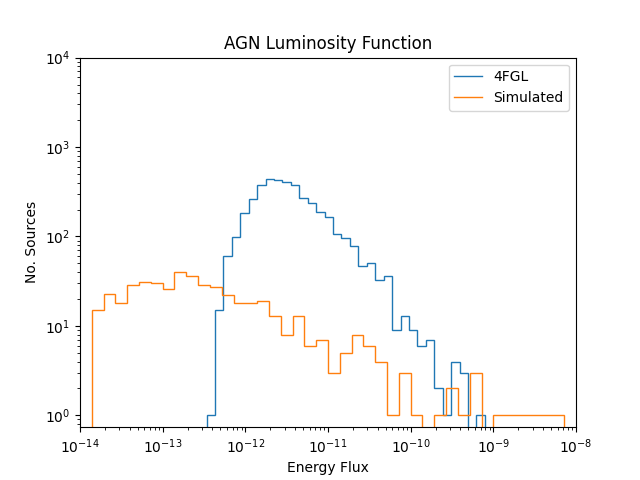
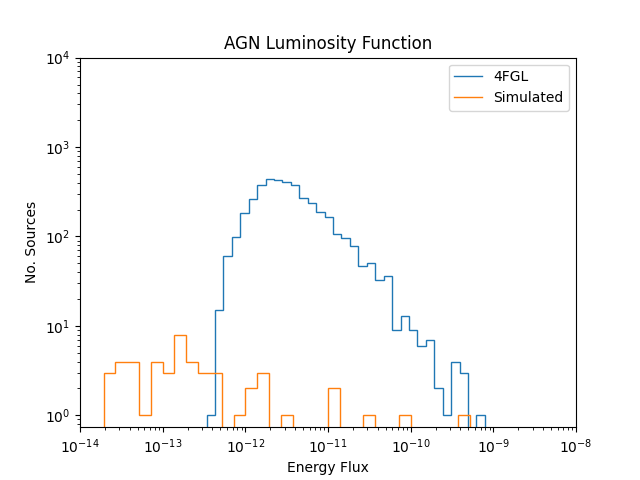
There is something wrong with the pulsar latitude generation.

diff --git a/data_simulation/source_generation/pulsar_generation.py b/data_simulation/source_generation/pulsar_generation.py
@@ -5,17 +5,24 @@ from . utils import split_normal
 from scipy.optimize import curve_fit
 from scipy.stats import Mixture, Normal
 
+import matplotlib.pyplot as plt
+
 
 def pulsar_generator(pulsar_stats, energy_flux_low, energy_flux_high, sigma_1, sigma_2):
 
     # sigma_1 and sigma_2 are the fitted standard deviations of Gaussian distribution
 
-    (mean_log_Gamma_pulsars, std_log_Gamma_pulsars, b_values, len_pulsars, mean_log_a_pulsars, std_log_a_pulsars,
+    (mean_log_Gamma_pulsars, std_log_Gamma_pulsars, b_values, mean_log_a_pulsars, std_log_a_pulsars,
      mean_log_flux_density_pulsars, std_log_flux_density_pulsars, mean_log_pivot_energy_pulsars,
-     std_log_pivot_energy_pulsars, latitudes_pulsars) = pulsar_stats
+     std_log_pivot_energy_pulsars) = pulsar_stats
+
+    # Generate new exponential indices (bs) by selecting from values available (instead of Gaussian recommended by ID8)
+    len_pulsars = len(b_values)
 
     unique_values = np.unique_all(b_values)
     choice_values = unique_values.values
+
+    # Divide by number of pulsars in 4FGL to get probabilities
     new_weights = unique_values.counts / len_pulsars
 
     while True:
@@ -23,8 +30,7 @@ def pulsar_generator(pulsar_stats, energy_flux_low, energy_flux_high, sigma_1, s
         # SPECTRAL PARAMETERS
 
         # Generate new pivot energies - in ID8, they randomly select pivot energies from a Gaussian distribution.
-        # However, the distribution of pivot energies in the 4FGL follows log-normal more precise (CHECK THIS IS TRUE
-        # FOR PULSARS_
+        # However, the distribution of pivot energies in the 4FGL follows log-normal more precise
         pivot_energy = np.random.lognormal(mean=mean_log_pivot_energy_pulsars, sigma=std_log_pivot_energy_pulsars,
                                              size=1)[0]
 
@@ -50,6 +56,7 @@ def pulsar_generator(pulsar_stats, energy_flux_low, energy_flux_high, sigma_1, s
         energy_flux = energy_flux_pulsar(pivot_energy, flux_density, spectral_slope, exponential_index,
                                          exponential_factor)
 
+        # Check energy flux in given range AND that the energy flux is valid
         if (energy_flux >= energy_flux_low) and (energy_flux < energy_flux_high) and (~np.isnan(energy_flux)):
 
             # SPATIAL PARAMETERS
@@ -72,7 +79,7 @@ def pulsar_generator(pulsar_stats, energy_flux_low, energy_flux_high, sigma_1, s
                                energy_flux, longitude, latitude])
 
 
-def pulsar_statistics(pulsars):
+def generate_mock_pulsar_catalog(pulsars, num_pulsars=350):
 
     # Select pivot energy values and convert from MeV to GeV
     pivot_energies = pulsars['Pivot_Energy'].to(u.GeV).value
@@ -84,6 +91,8 @@ def pulsar_statistics(pulsars):
     b_values = pulsars['PLEC_Exp_Index'].data.filled(np.nan)
 
     # Select exponential factors - CHECK (SAYS IN UNITS OF MeV^-b BUT NEED with GeV)
+    # Generate new exponential factors (as) - log-normal (CHANGED FROM ID8, which used normal/Gaussian BASED ON RESULTS
+    # FOUND IN analysing_pulsar_parameters() function)
     a_values = pulsars['PLEC_ExpfactorS'].data
 
     # Select flux density values and convert from ph / (cm2 MeV s) to ph / (cm2 GeV s)
@@ -93,80 +102,30 @@ def pulsar_statistics(pulsars):
     # Log-normal for Gamma even though says Gaussian in ID8
     log_Gammas = np.log(Gammas)
 
-    mean_log_Gamma, std_log_Gamma = np.nanmean(log_Gammas), np.nanstd(log_Gammas, ddof=1)
+    mean_log_Gamma_pulsars, std_log_Gamma_pulsars = np.nanmean(log_Gammas), np.nanstd(log_Gammas, ddof=1)
 
     log_a_values = np.log(a_values)
 
     # Log-normal for values of a even if ID8 says Gaussian
-    mean_log_a, std_log_a = np.nanmean(log_a_values), np.nanstd(log_a_values, ddof=1)
+    mean_log_a_pulsars, std_log_a_pulsars = np.nanmean(log_a_values), np.nanstd(log_a_values, ddof=1)
 
-    mean_log_flux_density, std_log_flux_density = np.nanmean(log_flux_densities), np.nanstd(log_flux_densities)
+    mean_log_flux_density_pulsars, std_log_flux_density_pulsars = (np.nanmean(log_flux_densities),
+                                                                   np.nanstd(log_flux_densities))
 
     # Log-normal for pivot energy even though ID8 says Gaussian
     log_pivot_energies = np.log(pivot_energies)
 
-    mean_log_pivot_energy, std_log_pivot_energy = np.nanmean(log_pivot_energies), np.nanstd(log_pivot_energies, ddof=1)
+    mean_log_pivot_energy_pulsars, std_log_pivot_energy_pulsars = (np.nanmean(log_pivot_energies),
+                                                                   np.nanstd(log_pivot_energies, ddof=1))
 
-    pulsar_latitudes = pulsars['GLAT']
-
-    return (mean_log_Gamma, std_log_Gamma, b_values, len(pulsars), mean_log_a, std_log_a, mean_log_flux_density,
-            std_log_flux_density, mean_log_pivot_energy, std_log_pivot_energy, pulsar_latitudes)
-
-
-def generate_mock_pulsar_catalog(pulsar_stats, num_pulsars=350):
-
-    (mean_log_Gamma_pulsars, std_log_Gamma_pulsars, b_values, len_pulsars, mean_log_a_pulsars, std_log_a_pulsars,
+    pulsar_stats = (mean_log_Gamma_pulsars, std_log_Gamma_pulsars, b_values, mean_log_a_pulsars, std_log_a_pulsars,
      mean_log_flux_density_pulsars, std_log_flux_density_pulsars, mean_log_pivot_energy_pulsars,
-     std_log_pivot_energy_pulsars, latitudes_pulsars) = pulsar_stats
-    #
-    # # SPECTRAL PARAMETERS
-    #
-    # # Generate new pivot energies - in ID8, they randomly select pivot energies from a Gaussian distribution. However,
-    # # the distribution of pivot energies in the 4FGL follows log-normal more precise (CHECK THIS IS TRUE FOR PULSARS_
-    # pivot_energies = np.random.lognormal(mean=mean_log_pivot_energy_pulsars, sigma=std_log_pivot_energy_pulsars,
-    #                                      size=num_pulsars)
-    #
-    # # Generate new flux densities - log-normal for flux densities
-    # flux_densities = np.random.lognormal(mean=mean_log_flux_density_pulsars, sigma=std_log_flux_density_pulsars,
-    #                                      size=num_pulsars)
-    #
-    # # Generate new spectral slopes (Gammas) - changed to log-normal for ID8 gaussian
-    # spectral_slopes = np.random.lognormal(mean=mean_log_Gamma_pulsars, sigma=std_log_Gamma_pulsars, size=num_pulsars)
-    #
-    # # Generate new exponential factors (as) - log-normal (CHANGED FROM ID8, which used normal/Gaussian BASED ON RESULTS
-    # # FOUND IN analysing_pulsar_parameters() function)
-    # exponential_factors = np.random.lognormal(mean=mean_log_a_pulsars, sigma=std_log_a_pulsars, size=num_pulsars)
-    #
-    # # Generate new exponential indices (bs) by selecting from values available (instead of Gaussian recommended by ID8)
-    # unique_values = np.unique_all(b_values)
-    # choice_values = unique_values.values
-    #
-    # # Divide by number of pulsars in 4FGL to get probabilities
-    # new_weights = unique_values.counts / len_pulsars
-    #
-    # exponential_indices = np.random.choice(choice_values, p=new_weights, size=num_pulsars)
-    #
-    # # Combine into one array
-    # parameters = np.stack((pivot_energies, flux_densities, spectral_slopes, exponential_indices, exponential_factors), axis=-1)
-    #
-    # # Energy fluxes
-    # energy_fluxes = np.fromiter((energy_flux_pulsar(x[0], x[1], x[2], x[3], x[4]) for x in parameters), np.float64)
-    #
-    # # Select rows with valid energy fluxes
-    # mask = ~np.isnan(energy_fluxes)
-    # energy_fluxes = energy_fluxes[mask]
-    # parameters = parameters[mask]
-    #
-    # # Combine two arrays to create mock catalog's spectral parameters
-    # parameters = np.concatenate((parameters, np.array([energy_fluxes]).T), axis=1)
-    #
-    # # SPATIAL PARAMETERS
-    #
-    # # l - uniform distribution assumed
-    # galactic_longitudes = np.random.uniform(low=0, high=2 * np.pi, size=len(parameters))
+     std_log_pivot_energy_pulsars)
 
-    # b - double Gaussian - two overlapping sampled as one
-    counts, bins = np.histogram(latitudes_pulsars.value, bins=100, density=True)
+    # Fit split-normal distribution that describes pulsar latitudes and pass the appropriate parameters to
+    # pulsar_generator()
+
+    counts, bins = np.histogram(pulsars['GLAT'].value, bins=100, density=True)
 
     bin_width = np.abs(bins[1] - bins[0])
 
@@ -174,24 +133,9 @@ def generate_mock_pulsar_catalog(pulsar_stats, num_pulsars=350):
 
     x_values = [start_value + (k * bin_width) for k in range(len(bins) - 1)]
 
-    popt, _ = curve_fit(f=split_normal, xdata=np.asarray(x_values), ydata=np.asarray(counts), bounds=([0, 0], [90, 90]))
+    popt, _ = curve_fit(f=split_normal, xdata=np.asarray(x_values), ydata=np.asarray(counts), bounds=([0, 0], [2 * np.pi, 2 * np.pi]))
 
-    # # Randomly sample pulsar latitudes from distribution created above
-    # X1 = Normal(mu=0, sigma=popt[0])
-    # X2 = Normal(mu=0, sigma=popt[1])
-    #
-    # # CHANGE WEIGHTS HERE TO REFLECT MSP VS YNG
-    #
-    # mixture = Mixture([X1, X2])
-    #
-    # galactic_latitudes = mixture.sample(shape=(num_pulsars, 1)).flatten()
-    #
-    # # Combine two arrays to create mock catalog's spatial parameters
-    # parameters = np.concatenate((parameters, np.array([galactic_longitudes]).T), axis=1)
-    #
-    # # Combine two arrays to create mock catalog's spatial parameters
-    # parameters = np.concatenate((parameters, np.array([galactic_latitudes]).T), axis=1)
-
+    print(popt)
 
     parameters = []
 
@@ -202,7 +146,22 @@ def generate_mock_pulsar_catalog(pulsar_stats, num_pulsars=350):
 
     parameters = np.array(parameters)
 
+    counts, bins = np.histogram(pulsars["GLAT"].value, bins=100, density=True)
 
+    plt.stairs(counts, bins, label='4FGL')
+
+    # Randomly sample pulsar latitudes from distribution created above
+    # X1 = Normal(mu=0, sigma=popt[0])
+    # X2 = Normal(mu=0, sigma=popt[1])
+    #
+    # # CHANGE WEIGHTS HERE TO REFLECT MSP VS YNG
+    # mixture = Mixture([X1, X2])
+    #
+    # x_val = np.linspace(-10, 10, 1000)
+    #
+    # plt.plot(x_val, mixture.pdf(x_val) * 180/np.pi)
+
+    plt.show()
 
     # CUTOFF THRESHOLD AND LUMINOSITY FUNCTION CHECK
 

diff --git a/data_simulation/create_mock_catalog.py b/data_simulation/create_mock_catalog.py
@@ -36,7 +36,8 @@ from analysis.visualisation import (plot_correlation_matrices, plot_parameter_di
                                     plot_parameter_relationships)
 from verification.visualisation import plot_agn_luminosity_function, plot_spatial_distribution
 from read_write_functions import catalog_data_preparation
-from source_generation.pulsar_generation import generate_mock_pulsar_catalog, pulsar_statistics
+from source_generation.agn_generation import generate_mock_agn_catalog
+from source_generation.pulsar_generation import generate_mock_pulsar_catalog
 from data_simulation.source_generation.utils import split_normal
 
 # VISUALISATIONS
@@ -571,16 +572,18 @@ agn_rows, pulsar_rows, source_detection_threshold, fluxes_4fgl = catalog_data_pr
 
 # Generate simulated AGN sources
 
-# agns = generate_mock_agn_catalog(agn_rows.copy(), num_agns=300, detection_threshold=source_detection_threshold)
+agns = generate_mock_agn_catalog(agn_rows.copy(), num_agns=30, detection_threshold=source_detection_threshold)
 
 # Generate simulated pulsar sources
 
-pulsars = generate_mock_pulsar_catalog(pulsar_statistics(pulsar_rows.copy()), 10)
+# pulsars = generate_mock_pulsar_catalog(pulsar_statistics(pulsar_rows.copy()), 100)
+
+pulsars = generate_mock_pulsar_catalog(pulsar_rows.copy(), 1000)
 
 print(pulsars)
 
 # Verify realism and correctness of generated gamma-ray sources
-# verification(agns, pulsars)
+verification(agns, pulsars)
 
 
 # REFERENCES
